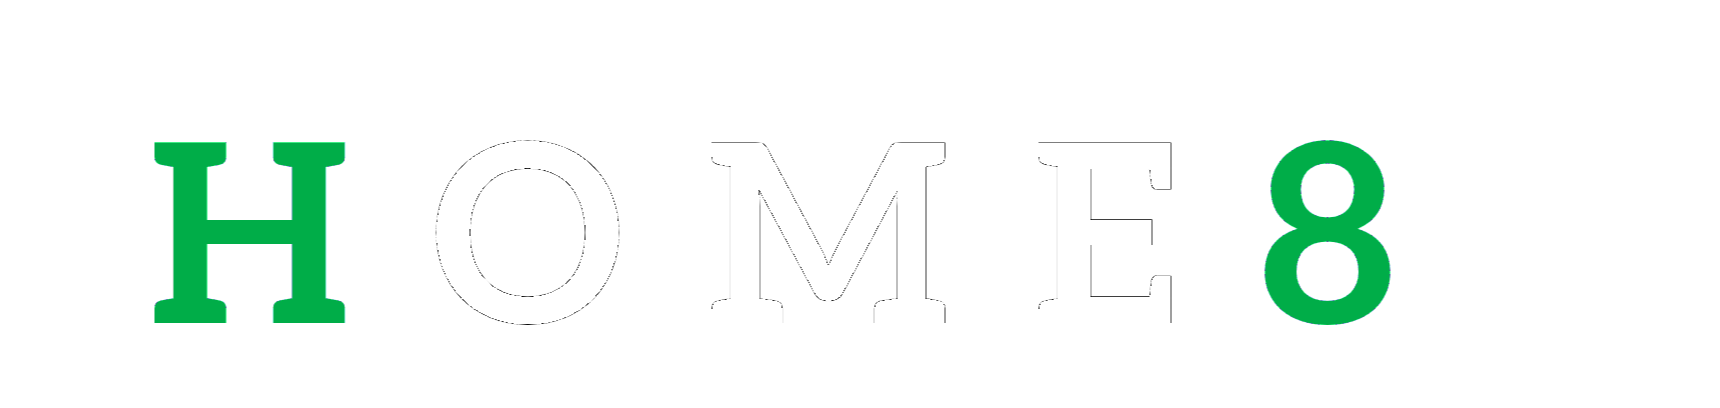
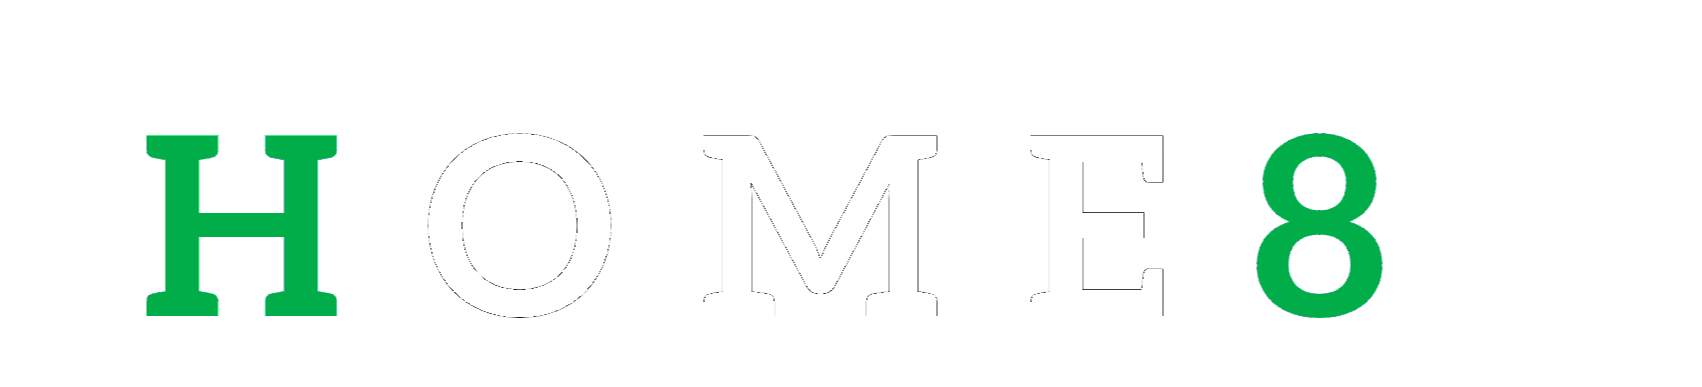
create github pages

diff --git a/index.html b/index.html
@@ -47,8 +47,7 @@
             </div>
         </div>
         <div class="collapse navbar-collapse" id="navbarSupportedContent">
-            <ul class="navbar-nav nav-dropdown" data-app-modern-menu="true">
-                <li class="nav-item">
+            <ul class="navbar-nav nav-dropdown" data-app-modern-menu="true"><li class="nav-item">
                     <a class="nav-link link text-white display-4" href="https://mobirise.com">
                         <span class="mbri-home mbr-iconfont mbr-iconfont-btn"></span>
                         Services
@@ -59,8 +58,7 @@
                         <span class="mbri-search mbr-iconfont mbr-iconfont-btn"></span>
                         About Us
                     </a>
-                </li>
-            </ul>
+                </li></ul>
             <div class="navbar-buttons mbr-section-btn"><a class="btn btn-sm btn-primary display-4" href="https://mobirise.com">
                     <span class="mbri-save mbr-iconfont mbr-iconfont-btn "></span>
                     Try It Now!
@@ -69,7 +67,7 @@
     </nav>
 </section>
 
-<section class="engine"><a href="https://mobirise.co/d">free website software</a></section><section class="cid-qGZ9COfx2k mbr-fullscreen mbr-parallax-background" id="header2-i">
+<section class="engine"><a href="https://mobirise.co/c">free web page maker</a></section><section class="cid-qGZ9COfx2k mbr-fullscreen mbr-parallax-background" id="header2-i">
 
     
 
@@ -105,8 +103,8 @@
         <div class="media-container-row content text-white">
             <div class="col-12 col-md-3">
                 <div class="media-wrap">
-                    <a href="https://mobirise.com/">
-                        <img src="assets/images/h8wei-1749x526.png" alt="Mobirise" title="">
+                    <a href="index.html">
+                        <img src="assets/images/h8wei-1297x257.png" alt="Mobirise" title="">
                     </a>
                 </div>
             </div>
@@ -126,23 +124,7 @@
                 <p class="mbr-text"></p>
             </div>
         </div>
-        <div class="footer-lower">
-            <div class="media-container-row">
-                <div class="col-sm-12">
-                    <hr>
-                </div>
-            </div>
-            <div class="media-container-row mbr-white">
-                <div class="col-sm-6 copyright">
-                    <p class="mbr-text mbr-fonts-style display-7">
-                        © Copyright 2017 Mobirise - All Rights Reserved
-                    </p>
-                </div>
-                <div class="col-md-6">
-                    
-                </div>
-            </div>
-        </div>
+        
     </div>
 </section>
 

diff --git a/page1.html b/page1.html
@@ -38,16 +38,15 @@
         <div class="menu-logo">
             <div class="navbar-brand">
                 <span class="navbar-logo">
-                    <a href="https://mobirise.com">
-                         <img src="assets/images/home8logo-1749x526.png" alt="Mobirise" title="" style="height: 3.8rem;">
+                    <a href="index.html">
+                         <img src="assets/images/h8wei-1749x526.png" alt="Mobirise" title="" style="height: 3.8rem;">
                     </a>
                 </span>
                 <span class="navbar-caption-wrap"><a class="navbar-caption text-white display-4" href="https://mobirise.com"></a></span>
             </div>
         </div>
         <div class="collapse navbar-collapse" id="navbarSupportedContent">
-            <ul class="navbar-nav nav-dropdown" data-app-modern-menu="true">
-                <li class="nav-item">
+            <ul class="navbar-nav nav-dropdown" data-app-modern-menu="true"><li class="nav-item">
                     <a class="nav-link link text-white display-4" href="https://mobirise.com">
                         <span class="mbri-home mbr-iconfont mbr-iconfont-btn"></span>
                         Services
@@ -58,8 +57,7 @@
                         <span class="mbri-search mbr-iconfont mbr-iconfont-btn"></span>
                         About Us
                     </a>
-                </li>
-            </ul>
+                </li></ul>
             <div class="navbar-buttons mbr-section-btn"><a class="btn btn-sm btn-primary display-4" href="https://mobirise.com">
                     <span class="mbri-save mbr-iconfont mbr-iconfont-btn "></span>
                     Try It Now!
@@ -69,7 +67,7 @@
 </section>
 
 
-  <section class="engine"><a href="https://mobirise.co/a">free web page builder</a></section><script src="assets/web/assets/jquery/jquery.min.js"></script>
+  <section class="engine"><a href="https://mobirise.co/j">how to design a website for free</a></section><script src="assets/web/assets/jquery/jquery.min.js"></script>
   <script src="assets/popper/popper.min.js"></script>
   <script src="assets/tether/tether.min.js"></script>
   <script src="assets/bootstrap/js/bootstrap.min.js"></script>

diff --git a/page2.html b/page2.html
@@ -46,8 +46,7 @@
             </div>
         </div>
         <div class="collapse navbar-collapse" id="navbarSupportedContent">
-            <ul class="navbar-nav nav-dropdown" data-app-modern-menu="true">
-                <li class="nav-item">
+            <ul class="navbar-nav nav-dropdown" data-app-modern-menu="true"><li class="nav-item">
                     <a class="nav-link link text-white display-4" href="https://mobirise.com">
                         <span class="mbri-home mbr-iconfont mbr-iconfont-btn"></span>
                         Services
@@ -58,8 +57,7 @@
                         <span class="mbri-search mbr-iconfont mbr-iconfont-btn"></span>
                         About Us
                     </a>
-                </li>
-            </ul>
+                </li></ul>
             <div class="navbar-buttons mbr-section-btn"><a class="btn btn-sm btn-primary display-4" href="https://mobirise.com">
                     <span class="mbri-save mbr-iconfont mbr-iconfont-btn "></span>
                     Try It Now!
@@ -68,7 +66,7 @@
     </nav>
 </section>
 
-<section class="engine"><a href="https://mobirise.co/o">bootstrap buttons</a></section><section class="cid-qH0mAVL8b8 mbr-fullscreen mbr-parallax-background" id="header2-r">
+<section class="engine"><a href="https://mobirise.co/p">bootstrap dropdown</a></section><section class="cid-qH0mAVL8b8 mbr-fullscreen mbr-parallax-background" id="header2-r">
 
     
 

diff --git a/assets/mobirise/css/mbr-additional.css b/assets/mobirise/css/mbr-additional.css
@@ -1829,7 +1829,7 @@ body {
   text-align: left;
 }
 .cid-qGZGLMjvmC {
-  background-image: url("../../../assets/images/mbr-1618x1080.jpg");
+  background-image: url("../../../assets/images/mbr-1452x1080.jpg");
 }
 .cid-qGZGLMjvmC .icons-media-container {
   display: flex;
